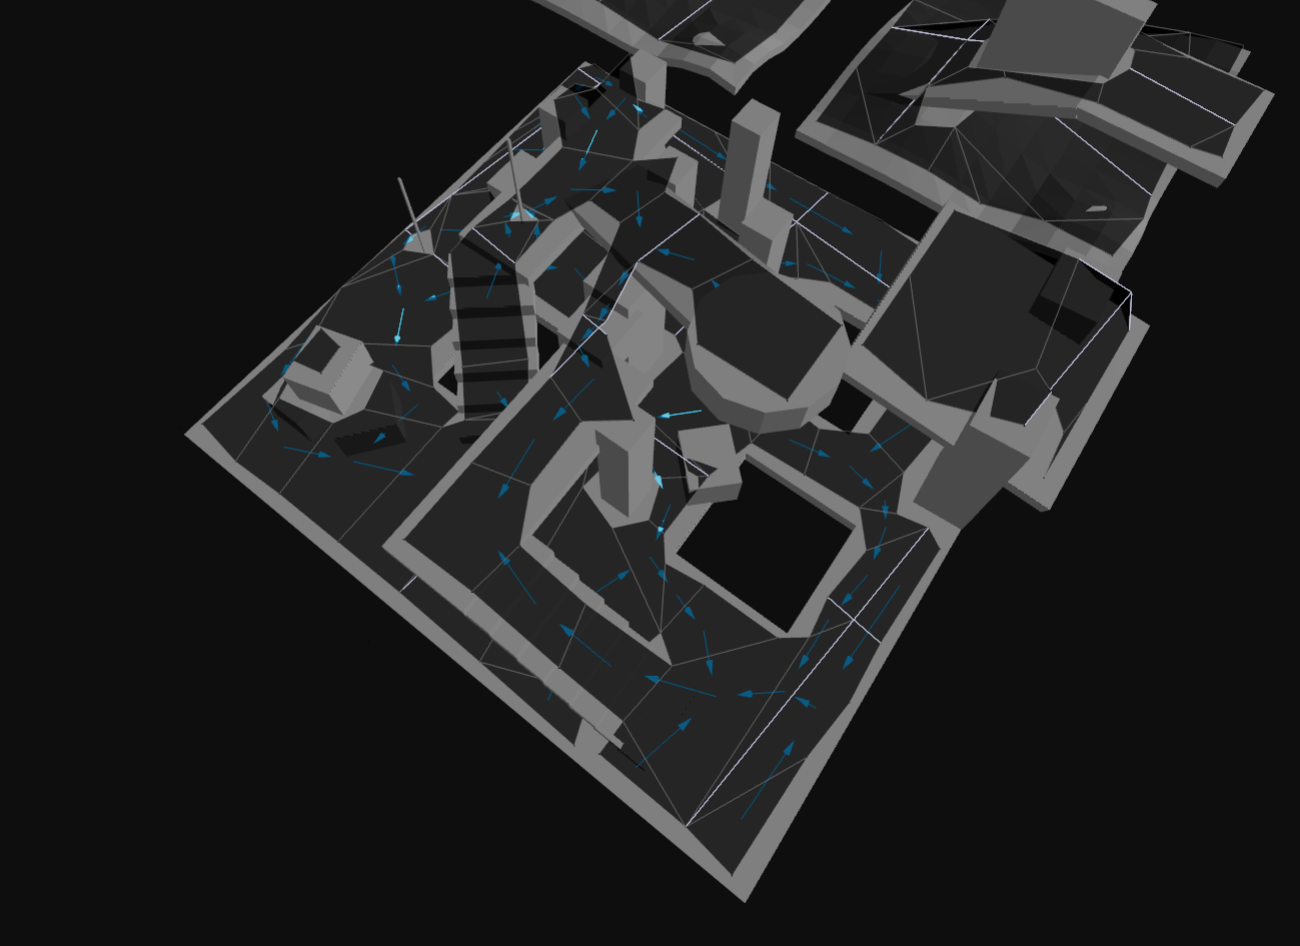
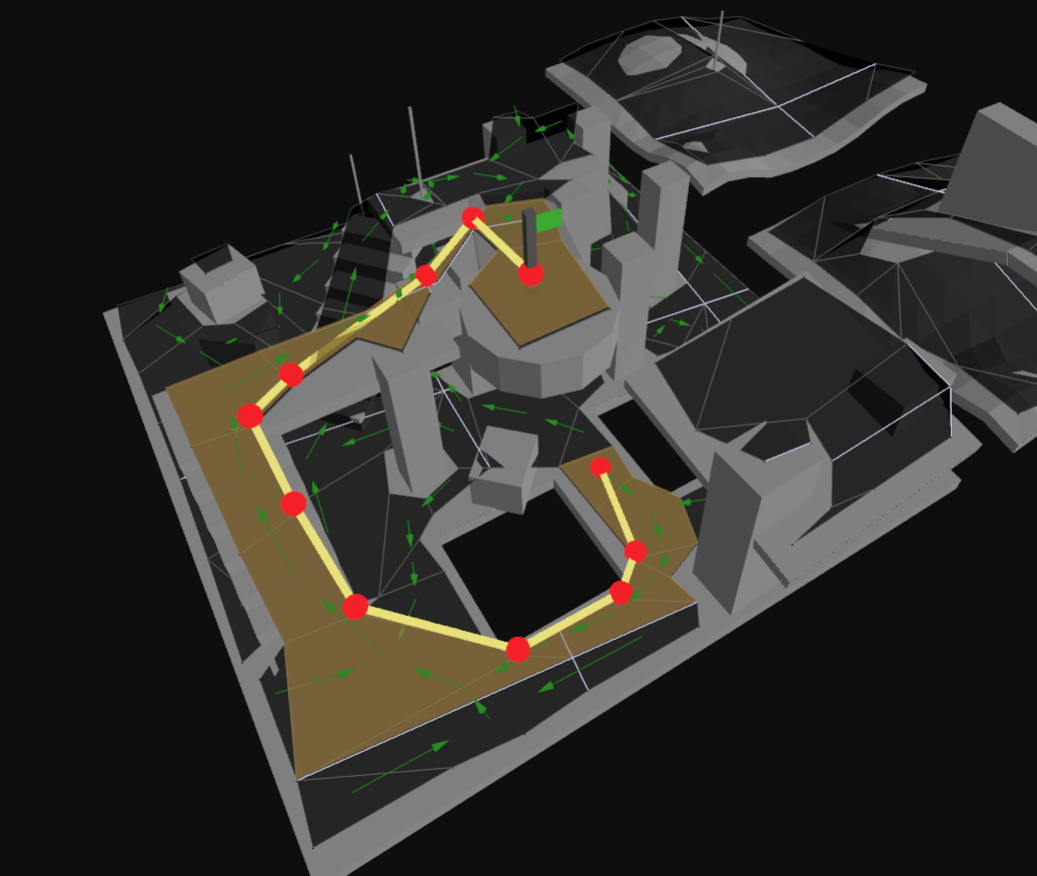
feat: update flow field pathfinding example

diff --git a/examples/src/example-flow-field-pathfinding.ts b/examples/src/example-flow-field-pathfinding.ts
@@ -10,7 +10,9 @@ import {
     three as threeUtils,
 } from 'navcat';
 import * as THREE from 'three';
-import { OrbitControls } from 'three/examples/jsm/Addons.js';
+import { LineGeometry, OrbitControls } from 'three/examples/jsm/Addons.js';
+import { Line2 } from 'three/examples/jsm/lines/webgpu/Line2.js';
+import { Line2NodeMaterial } from 'three/webgpu';
 import { createExample } from './common/example-boilerplate';
 import { computeFlowField, type FlowField, getNodePathFromFlowField } from './common/flow-field';
 import { generateTiledNavMesh, type TiledNavMeshInput, type TiledNavMeshOptions } from './common/generate-tiled-nav-mesh';
@@ -108,7 +110,9 @@ renderer.domElement.addEventListener('pointerdown', (event) => {
         const polyRef = getPolyRefAtMouse(event);
         if (polyRef) {
             flowFieldTarget = polyRef;
-            
+            const center = getPolyCenter(navMesh, polyRef);
+            showFlagAt(center);
+
             console.time('computeFlowField');
             flowField = computeFlowField(navMesh, polyRef, maxIterations);
             console.timeEnd('computeFlowField');
@@ -144,6 +148,39 @@ renderer.domElement.addEventListener('pointerdown', (event) => {
         }
     }
 });
+
+const flagGroup = (() => {
+    // pole
+    const poleGeom = new THREE.BoxGeometry(0.12, 1.2, 0.12);
+    const poleMat = new THREE.MeshStandardMaterial({ color: 0x888888 });
+    const pole = new THREE.Mesh(poleGeom, poleMat);
+    pole.position.set(0, 0.6, 0);
+
+    // Bigger flag
+    const flagGeom = new THREE.BoxGeometry(0.32, 0.22, 0.04);
+    const flagMat = new THREE.MeshStandardMaterial({ color: 0x00ff00 });
+    const flag = new THREE.Mesh(flagGeom, flagMat);
+    flag.position.set(0.23, 1.0, 0);
+
+    // group
+    const group = new THREE.Group();
+    group.add(pole);
+    group.add(flag);
+    group.visible = false;
+
+    return group;
+})();
+
+scene.add(flagGroup);
+
+function showFlagAt(position: [number, number, number] | null) {
+    if (position) {
+        flagGroup.position.set(position[0], position[1], position[2]);
+        flagGroup.visible = true;
+    } else {
+        flagGroup.visible = false;
+    }
+}
 
 const arrowHelpers: THREE.Object3D[] = [];
 const pathHelpers: THREE.Object3D[] = [];
@@ -196,7 +233,8 @@ function showFlowFieldArrows(navMesh: NavMesh, flowField: FlowField) {
         if (length < 0.01) continue;
 
         dir.normalize();
-        const arrow = new THREE.ArrowHelper(dir, new THREE.Vector3(...centerA), Math.max(length * 0.7, 0.3), 0x00bfff, 0.2, 0.1);
+        const arrow = new THREE.ArrowHelper(dir, new THREE.Vector3(...centerA), Math.max(length * 0.7, 0.3), 0x008000, 0.2, 0.1);
+        arrow.position.y += 0.3;
         arrowHelpers.push(arrow);
         scene.add(arrow);
     }
@@ -217,14 +255,26 @@ function showPath(pathPolys: NodeRef[], pathPoints: number[][]) {
     for (let i = 0; i < pathPoints.length; i++) {
         const pt = pathPoints[i];
         const mesh = new THREE.Mesh(new THREE.SphereGeometry(0.15), new THREE.MeshBasicMaterial({ color: 0xff0000 }));
-        mesh.position.set(pt[0], pt[1], pt[2]);
+        mesh.position.set(pt[0], pt[1] + 0.3, pt[2]);
         pathHelpers.push(mesh);
         scene.add(mesh);
         if (i > 0) {
             const prev = pathPoints[i - 1];
-            const geometry = new THREE.BufferGeometry().setFromPoints([new THREE.Vector3(...prev), new THREE.Vector3(...pt)]);
-            const material = new THREE.LineBasicMaterial({ color: 0xffff00 });
-            const line = new THREE.Line(geometry, material);
+            
+            const start = new THREE.Vector3(prev[0], prev[1] + 0.3, prev[2]);
+            const end = new THREE.Vector3(pt[0], pt[1] + 0.3, pt[2]);
+
+            const geometry = new LineGeometry();
+            geometry.setFromPoints([start, end]);
+
+            const material = new Line2NodeMaterial({
+                color: 'yellow',
+                linewidth: 0.1,
+                worldUnits: true,
+            });
+
+            const line = new Line2(geometry, material);
+
             pathHelpers.push(line);
             scene.add(line);
         }

diff --git a/examples/index.html b/examples/index.html
@@ -292,6 +292,11 @@
                 description: "Example of a simple character controller constrained to a navmesh",
                 tags: ["movement", "character controller"],
             },
+            "example-flow-field-pathfinding": {
+                title: "Flow Field Pathfinding",
+                description: "Example of flow field pathfinding on a navmesh",
+                tags: ["pathfinding", "navmesh"],
+            },
             // examples
             "example-solo-navmesh": {
                 title: "Solo NavMesh",
@@ -347,11 +352,6 @@
                 title: "Find Random Point Around Circle",
                 description: "Example of finding a random point around a circle on the navmesh",
                 tags: ["random"],
-            },
-            "example-flow-field-pathfinding": {
-                title: "Flow Field Pathfinding",
-                description: "Example of flow field pathfinding on a navmesh",
-                tags: ["pathfinding", "navmesh"],
             },
         };
 
